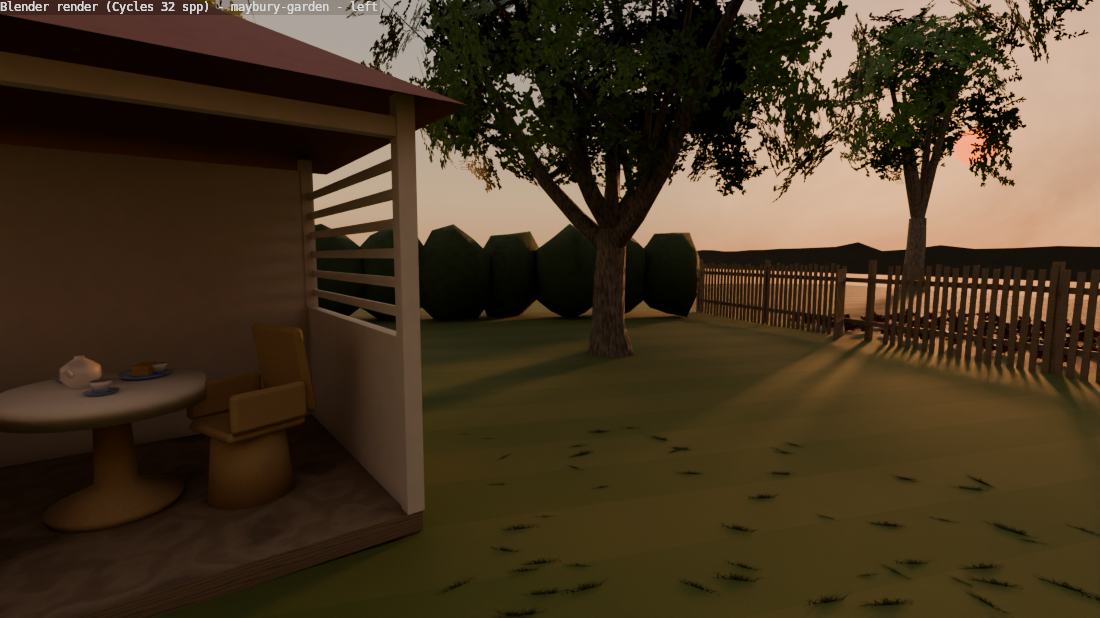
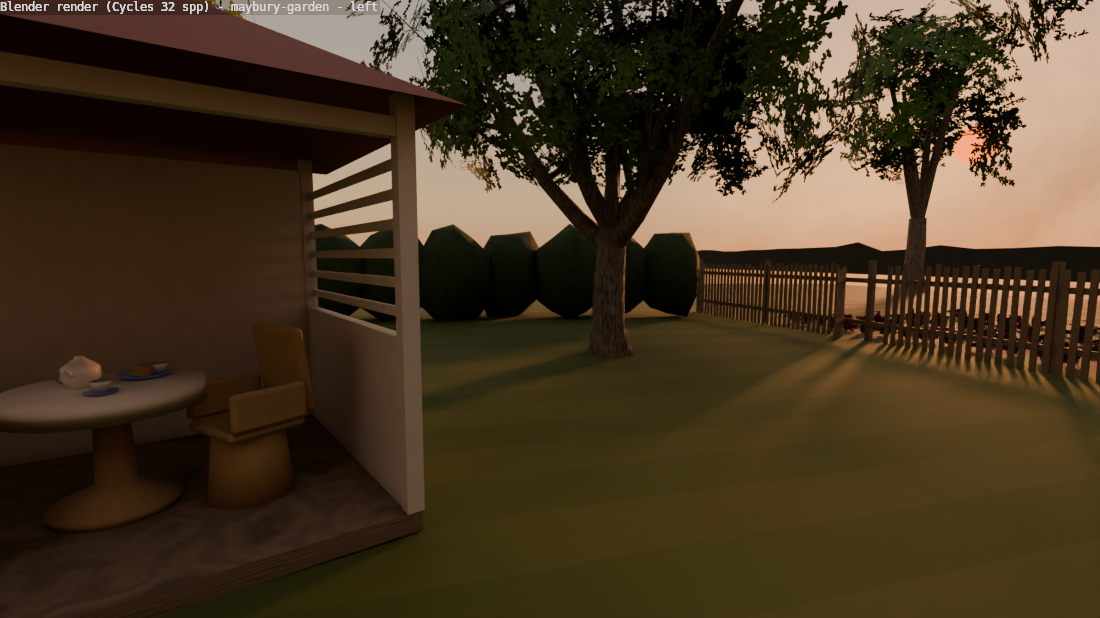
Scene room maybury-garden (worlds c09): redder fire on the college treetops, clean mown lawn
Second pass, republished: the burning treetops a deeper smoky red, no lawn tufts (the mown stripes carry the lawn),
the runtime exposure pulled down 0.6 stop to keep the lurid evening. 20,826 triangles, outdoor.

diff --git a/blender/build_maybury_garden.py b/blender/build_maybury_garden.py
@@ -120,7 +120,7 @@ M_CURTAIN = noisy("M_StudyCurtain", [(0.30, 0.25, 0.14), (0.38, 0.32, 0.18)], sc
 M_POT = noisy("M_ChimneyPot", [(0.38, 0.14, 0.07), (0.48, 0.20, 0.10)], scale=8, rough=0.8, bump=0.3)
 M_HEDGE = noisy("M_HedgeMass", [(0.02, 0.05, 0.015), (0.04, 0.08, 0.025), (0.06, 0.10, 0.03)], scale=6, rough=0.85, bump=0.7, bump_dist=0.04)
 M_FARTREES = noisy("M_FarTrees", [(0.02, 0.025, 0.015), (0.035, 0.04, 0.025)], scale=0.6, rough=0.9, bump=0.0)
-M_FIRE = plain("M_TreeFire", (0.1, 0.03, 0.01), rough=1.0, emission=(1.0, 0.20, 0.03), strength=1.6)
+M_FIRE = plain("M_TreeFire", (0.1, 0.03, 0.01), rough=1.0, emission=(0.85, 0.11, 0.015), strength=1.0)
 M_SMOKE = noisy("M_Smoke", [(0.08, 0.06, 0.05), (0.14, 0.10, 0.08), (0.22, 0.14, 0.10)], scale=0.08, rough=1.0, bump=0.0)
 M_FARSTONE = noisy("M_FarStone", [(0.12, 0.10, 0.09), (0.18, 0.15, 0.13)], scale=0.3, rough=0.9, bump=0.0)
 
@@ -270,7 +270,7 @@ def lawn_ok(x, y):
     if (Vector((x, y)) - SH).length < 2.2: return 0.0
     if math.hypot(x, y) < 0.6: return 0.0
     return 0.7
-B.scatter_cards(mb, None, R, 30000, 0.3, 5.0, lambda x, y: lawn_ok(x, y) * 0.5, B.MEADOW_SHORT, height=0.05, width=0.22, solid_from=99, maxcards=500)
+B.scatter_cards(mb, None, R, 0, 0.3, 5.0, lambda x, y: lawn_ok(x, y) * 0.5, B.MEADOW_SHORT, height=0.05, width=0.22, solid_from=99, maxcards=500)
 fb = MB()
 for i in range(240):            # the flower bed under the study window
     x = HOUSE_X - R.uniform(0.25, 1.4); y = R.uniform(2.3, 6.8)
@@ -284,7 +284,8 @@ for row in range(5):            # the neighbour's strawberry beds beyond the fen
         to_r = Vector((-x, -y, 0)).normalized(); ya = math.atan2(to_r.y, to_r.x) + math.pi / 2
         card(sb, (x, y, gz(x, y) - 0.02), Vector((math.cos(ya), math.sin(ya), 0)) * 0.45, Vector((0, 0, 0.3)), R.choice(B.QUAD), 0.0, 1.0)
 for o_, m_, nm in ((mb, M_LAWN_C, "LawnCards"), (fb, M_LAWN_C, "BedFlowers"), (sb, M_STRAW, "Strawberries")):
-    oo = o_.build(nm, m_); set_card_normals(oo, lambda p: Vector((0, 0, 1)))
+    oo = o_.build(nm, m_)
+    if oo is not None: set_card_normals(oo, lambda p: Vector((0, 0, 1)))
 
 # ----------------------------------------------------------------------------- the view beyond: trees about the Oriental College in smoky red flame, the mosque, the church tower
 print("distance ...", flush=True)
